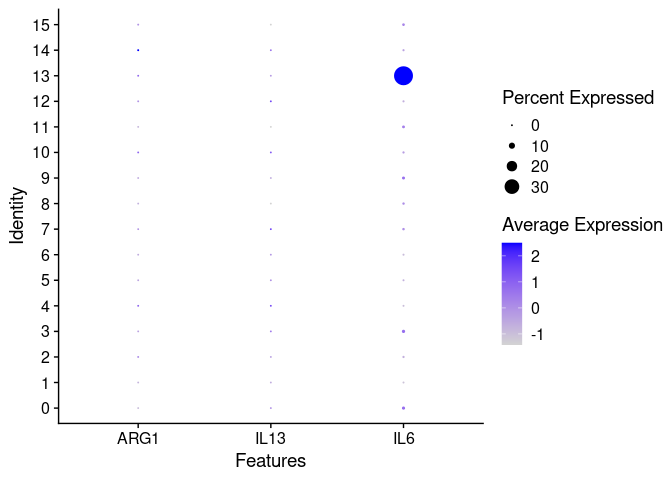
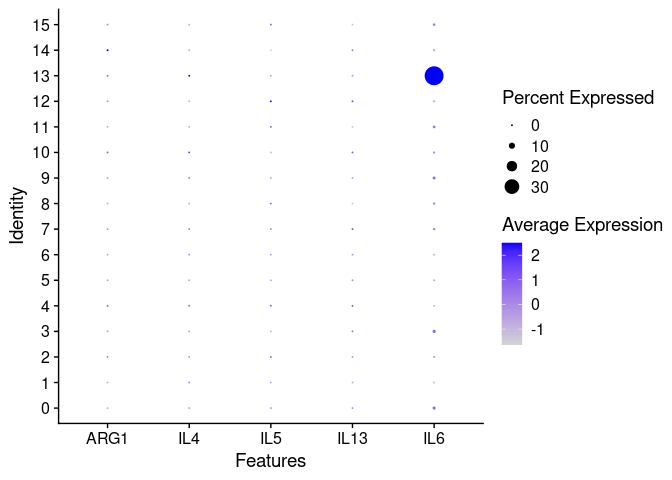
Added IL4 and IL5

diff --git a/forMallar-ARG1-on-0020227.md b/forMallar-ARG1-on-0020227.md
@@ -128,8 +128,8 @@ gc()
 ```
 
     ##            used  (Mb) gc trigger   (Mb)  max used   (Mb)
-    ## Ncells 11714250 625.7   85615447 4572.4 107019308 5715.5
-    ## Vcells 60939732 465.0  274270416 2092.6 356942971 2723.3
+    ## Ncells 11714517 625.7   81312316 4342.6 101640395 5428.2
+    ## Vcells 60940284 465.0  274270929 2092.6 356943528 2723.3
 
 ## Standard Processing
 
@@ -172,7 +172,7 @@ ipf3.filtered.xen <- FindClusters(ipf3.filtered.xen, resolution = 0.6)
     ## Running Louvain algorithm...
     ## Maximum modularity in 10 random starts: 0.8555
     ## Number of communities: 16
-    ## Elapsed time: 351 seconds
+    ## Elapsed time: 347 seconds
 
 ``` r
 DimPlot(ipf3.filtered.xen)
@@ -182,13 +182,17 @@ DimPlot(ipf3.filtered.xen)
     ## To disable this behavior set `raster=FALSE`
 
 ![](forMallar-ARG1-on-0020227_files/figure-gfm/unnamed-chunk-8-1.png)<!-- -->
-# ARG1 for Mallar
+\# ARG1 for Mallar
 
 ``` r
-FeaturePlot(ipf3.filtered.xen, features=c('ARG1','IL13','IL6'),
+FeaturePlot(ipf3.filtered.xen, features=c('ARG1','IL13','IL6','IL4','IL5'),
             min.cutoff='q25', max.cutoff='q90', order=T)
 ```
 
+    ## Rasterizing points since number of points exceeds 100,000.
+    ## To disable this behavior set `raster=FALSE`
+    ## Rasterizing points since number of points exceeds 100,000.
+    ## To disable this behavior set `raster=FALSE`
     ## Rasterizing points since number of points exceeds 100,000.
     ## To disable this behavior set `raster=FALSE`
     ## Rasterizing points since number of points exceeds 100,000.
@@ -199,7 +203,7 @@ FeaturePlot(ipf3.filtered.xen, features=c('ARG1','IL13','IL6'),
 ![](forMallar-ARG1-on-0020227_files/figure-gfm/unnamed-chunk-9-1.png)<!-- -->
 
 ``` r
-DotPlot(ipf3.filtered.xen, features=c('ARG1','IL13','IL6'))
+DotPlot(ipf3.filtered.xen, features=c('ARG1','IL4','IL5','IL13','IL6'))
 ```
 
 ![](forMallar-ARG1-on-0020227_files/figure-gfm/unnamed-chunk-10-1.png)<!-- -->
@@ -212,15 +216,29 @@ ImageFeaturePlot(ipf3.filtered.xen, features=c('ARG1'),
 ![](forMallar-ARG1-on-0020227_files/figure-gfm/unnamed-chunk-11-1.png)<!-- -->
 
 ``` r
-ImageFeaturePlot(ipf3.filtered.xen, features=c('IL13'),
+ImageFeaturePlot(ipf3.filtered.xen, features=c('IL4'),
             min.cutoff='q25', max.cutoff='q60', cols=c('white','red'))
 ```
 
 ![](forMallar-ARG1-on-0020227_files/figure-gfm/unnamed-chunk-11-2.png)<!-- -->
 
 ``` r
-ImageFeaturePlot(ipf3.filtered.xen, features=c('IL6'),
+ImageFeaturePlot(ipf3.filtered.xen, features=c('IL5'),
             min.cutoff='q25', max.cutoff='q60', cols=c('white','red'))
 ```
 
 ![](forMallar-ARG1-on-0020227_files/figure-gfm/unnamed-chunk-11-3.png)<!-- -->
+
+``` r
+ImageFeaturePlot(ipf3.filtered.xen, features=c('IL13'),
+            min.cutoff='q25', max.cutoff='q60', cols=c('white','red'))
+```
+
+![](forMallar-ARG1-on-0020227_files/figure-gfm/unnamed-chunk-11-4.png)<!-- -->
+
+``` r
+ImageFeaturePlot(ipf3.filtered.xen, features=c('IL6'),
+            min.cutoff='q25', max.cutoff='q60', cols=c('white','red'))
+```
+
+![](forMallar-ARG1-on-0020227_files/figure-gfm/unnamed-chunk-11-5.png)<!-- -->
